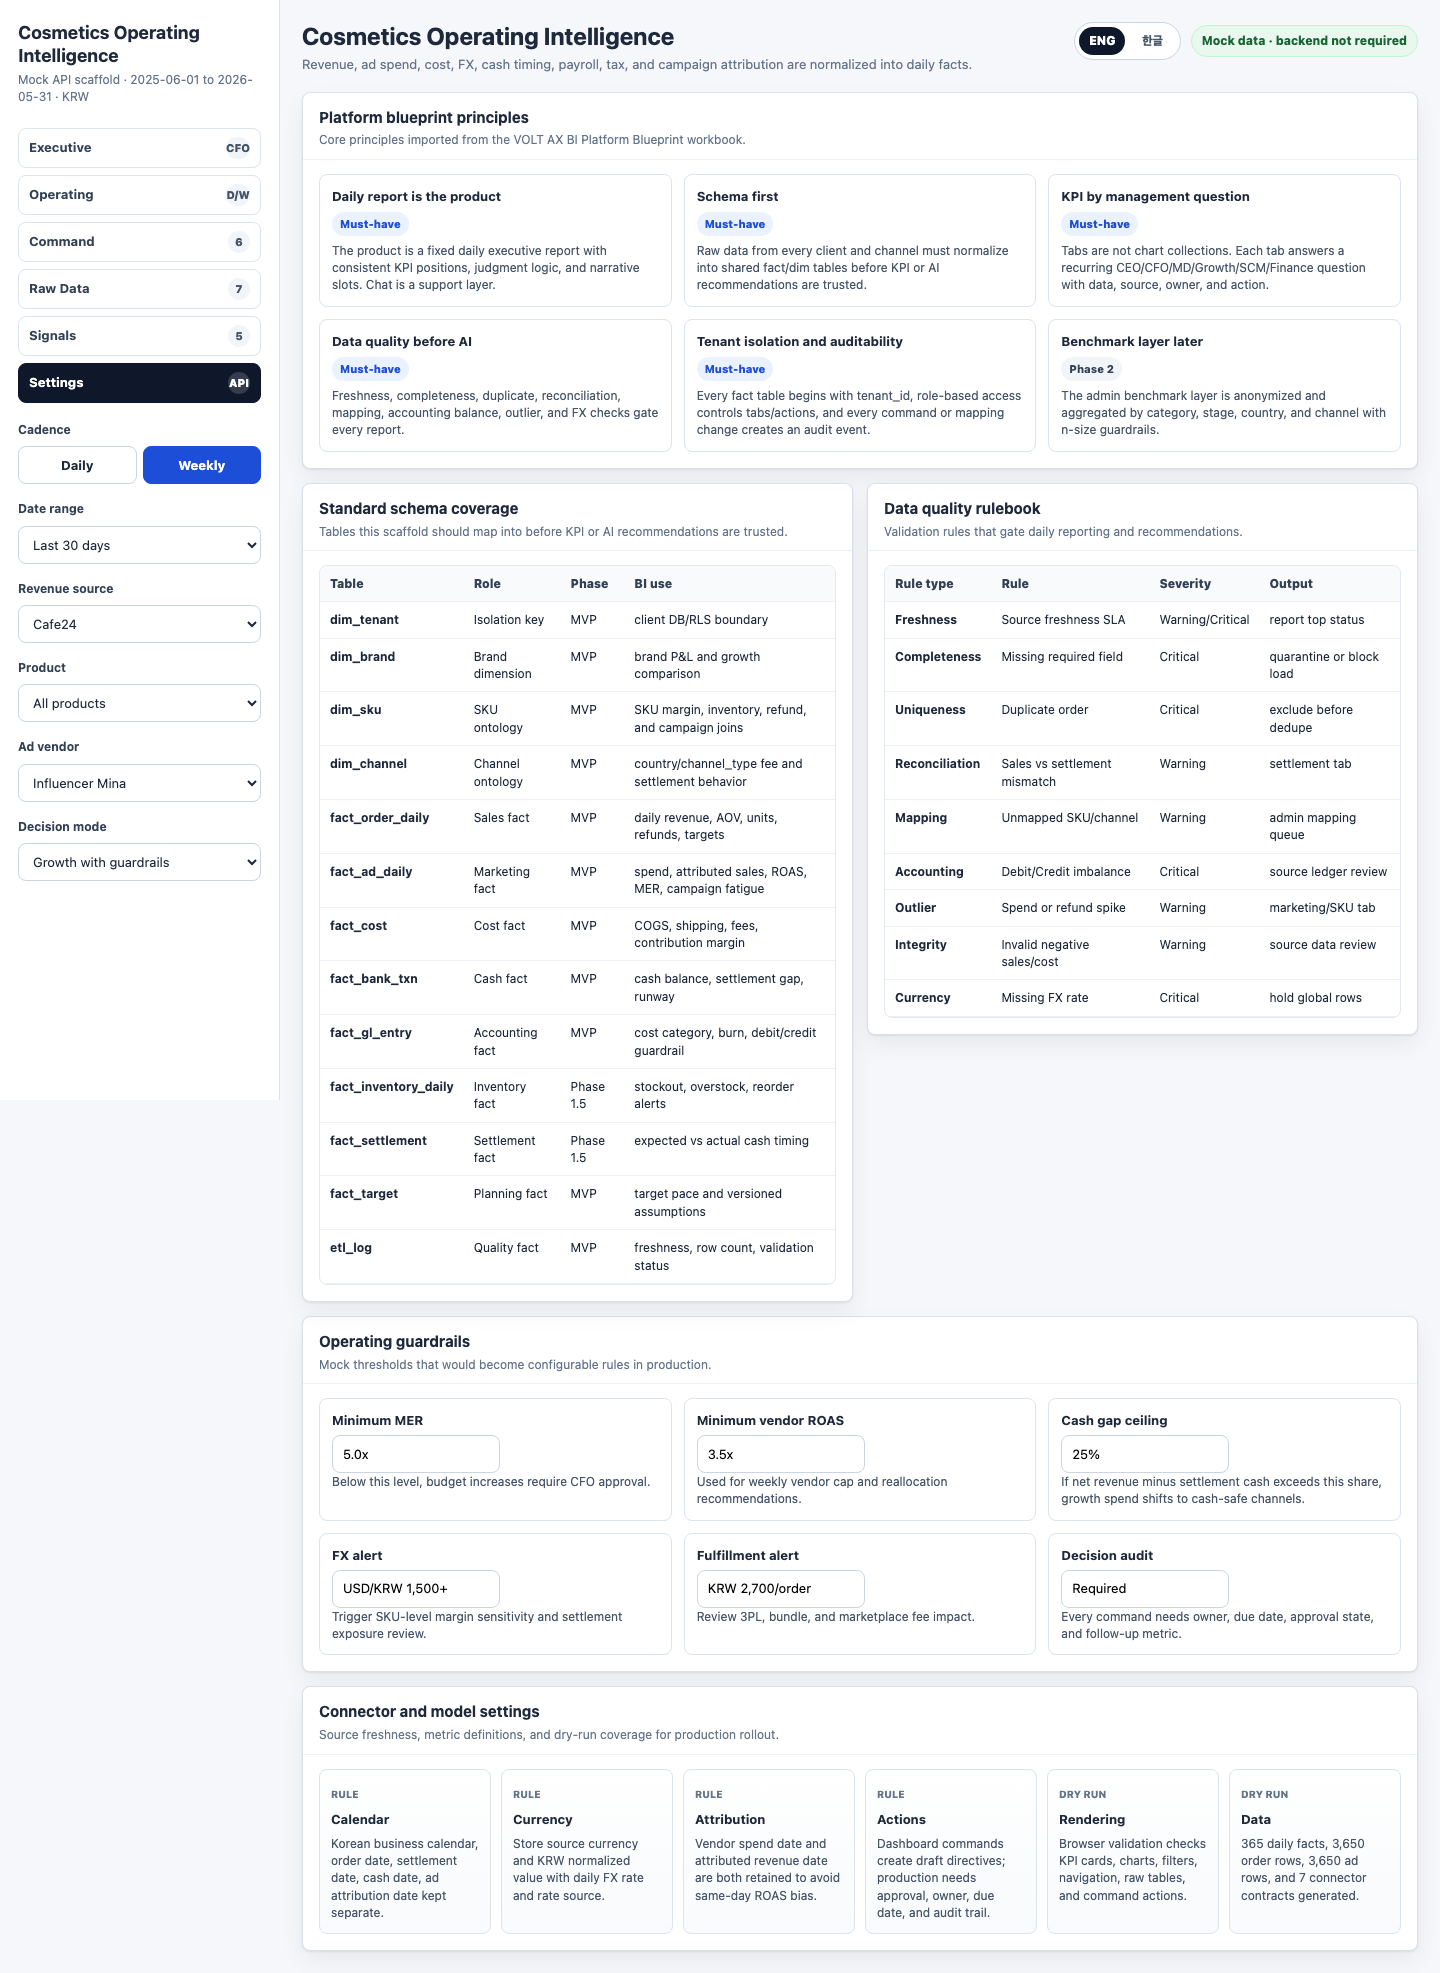
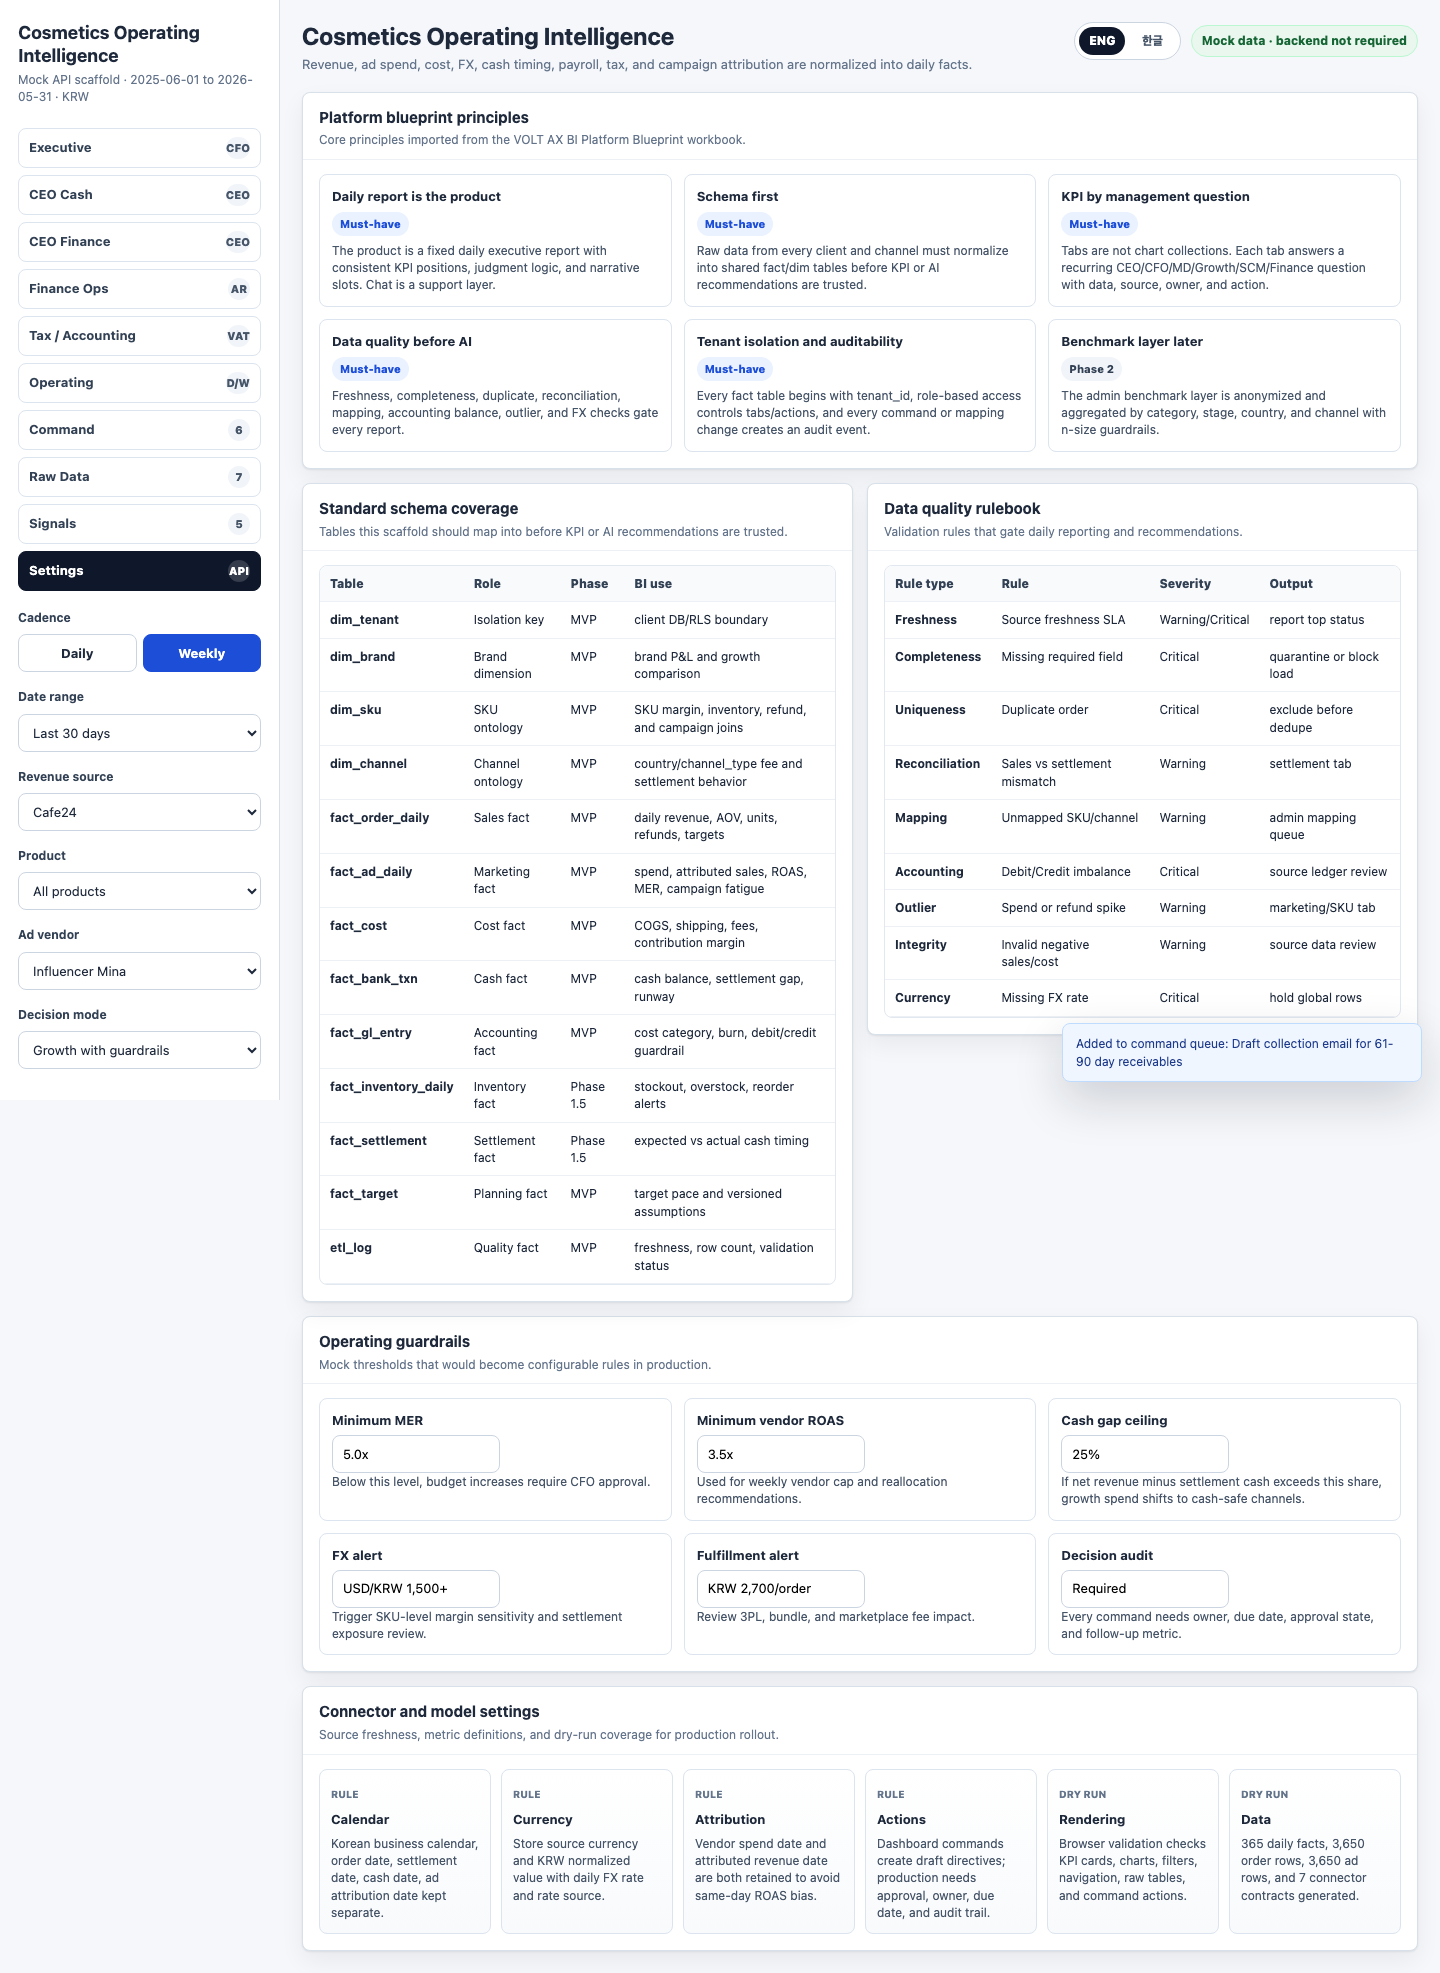
Add required finance role dashboard views

Changed region(s): [[0.0, 0.0928, 0.1875, 0.5256], [0.75, 0.5256, 0.9688, 0.5565]]

diff --git a/README.md b/README.md
@@ -17,6 +17,11 @@ Static mock dashboard for a cosmetics operating intelligence console.
 - Data views: raw orders, ad spend, costs, daily facts, payroll, tax, FX
 - Market signals: FX, Amazon FBA fees, K-beauty demand, Cafe24 channel shift
 - Language toggle: full English / Korean UI toggle for executive presentation
+- Required four-view finance board from `finance_dashboards_4views_interactive.html`
+- CEO cashflow view: north-star cash KPIs, Profit First five-bucket scenario sliders, channel cash contribution, 30-day cash events
+- CEO financial strategy view: business health KPIs, unit economics, working capital efficiency, channel/SKU concentration risk
+- Finance operator view: daily task checklist, AR aging actions, AP due schedule, channel settlement reconciliation
+- Tax accounting view: filing calendar, monthly bookkeeping progress, VAT status, annual P&L/B/S/C/F statement progress
 - Blueprint alignment: VOLT AX BI Platform Blueprint Brandgenome v0.1 principles embedded in the dashboard payload and Settings view
 - Daily report contract: fixed executive verdict, what changed, why it changed, what to do, and open-question slots
 - Schema first: 13 standard dim/fact/quality tables shown as the target ontology before KPI or AI recommendations
@@ -30,6 +35,11 @@ Static mock dashboard for a cosmetics operating intelligence console.
 - `dashboard_executive_sanity.png`: executive view QA screenshot
 - `dashboard_operating_sanity.png`: operating view QA screenshot
 - `dashboard_korean_sanity.png`: Korean UI QA screenshot
+- `dashboard_ceo_cash_sanity.png`: CEO cashflow view QA screenshot
+- `dashboard_ceo_finance_sanity.png`: CEO financial strategy view QA screenshot
+- `dashboard_finance_ops_sanity.png`: finance operator view QA screenshot
+- `dashboard_tax_accounting_sanity.png`: tax accounting view QA screenshot
+- `dashboard_ceo_cash_korean_sanity.png`: Korean CEO cashflow QA screenshot
 - `dashboard_sanity.png`: tab/navigation QA screenshot
 
 ## Data Notice